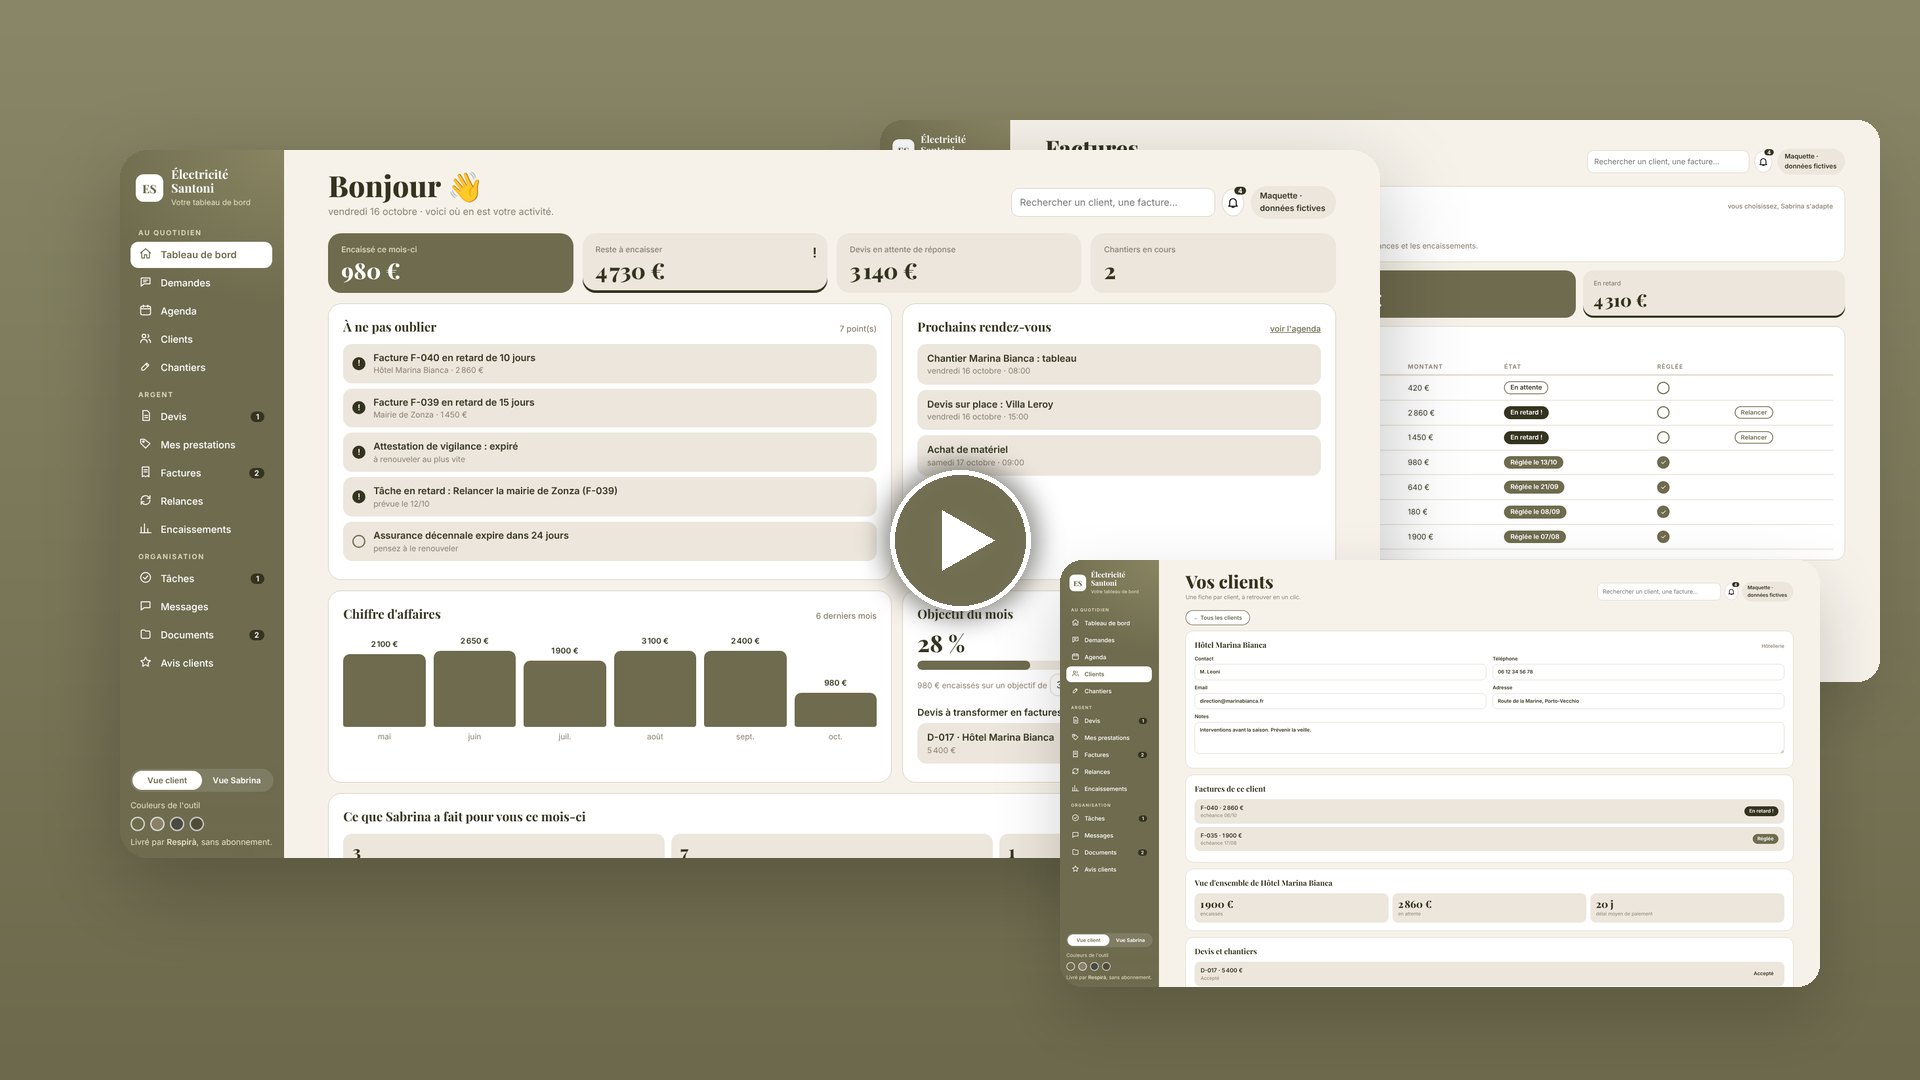
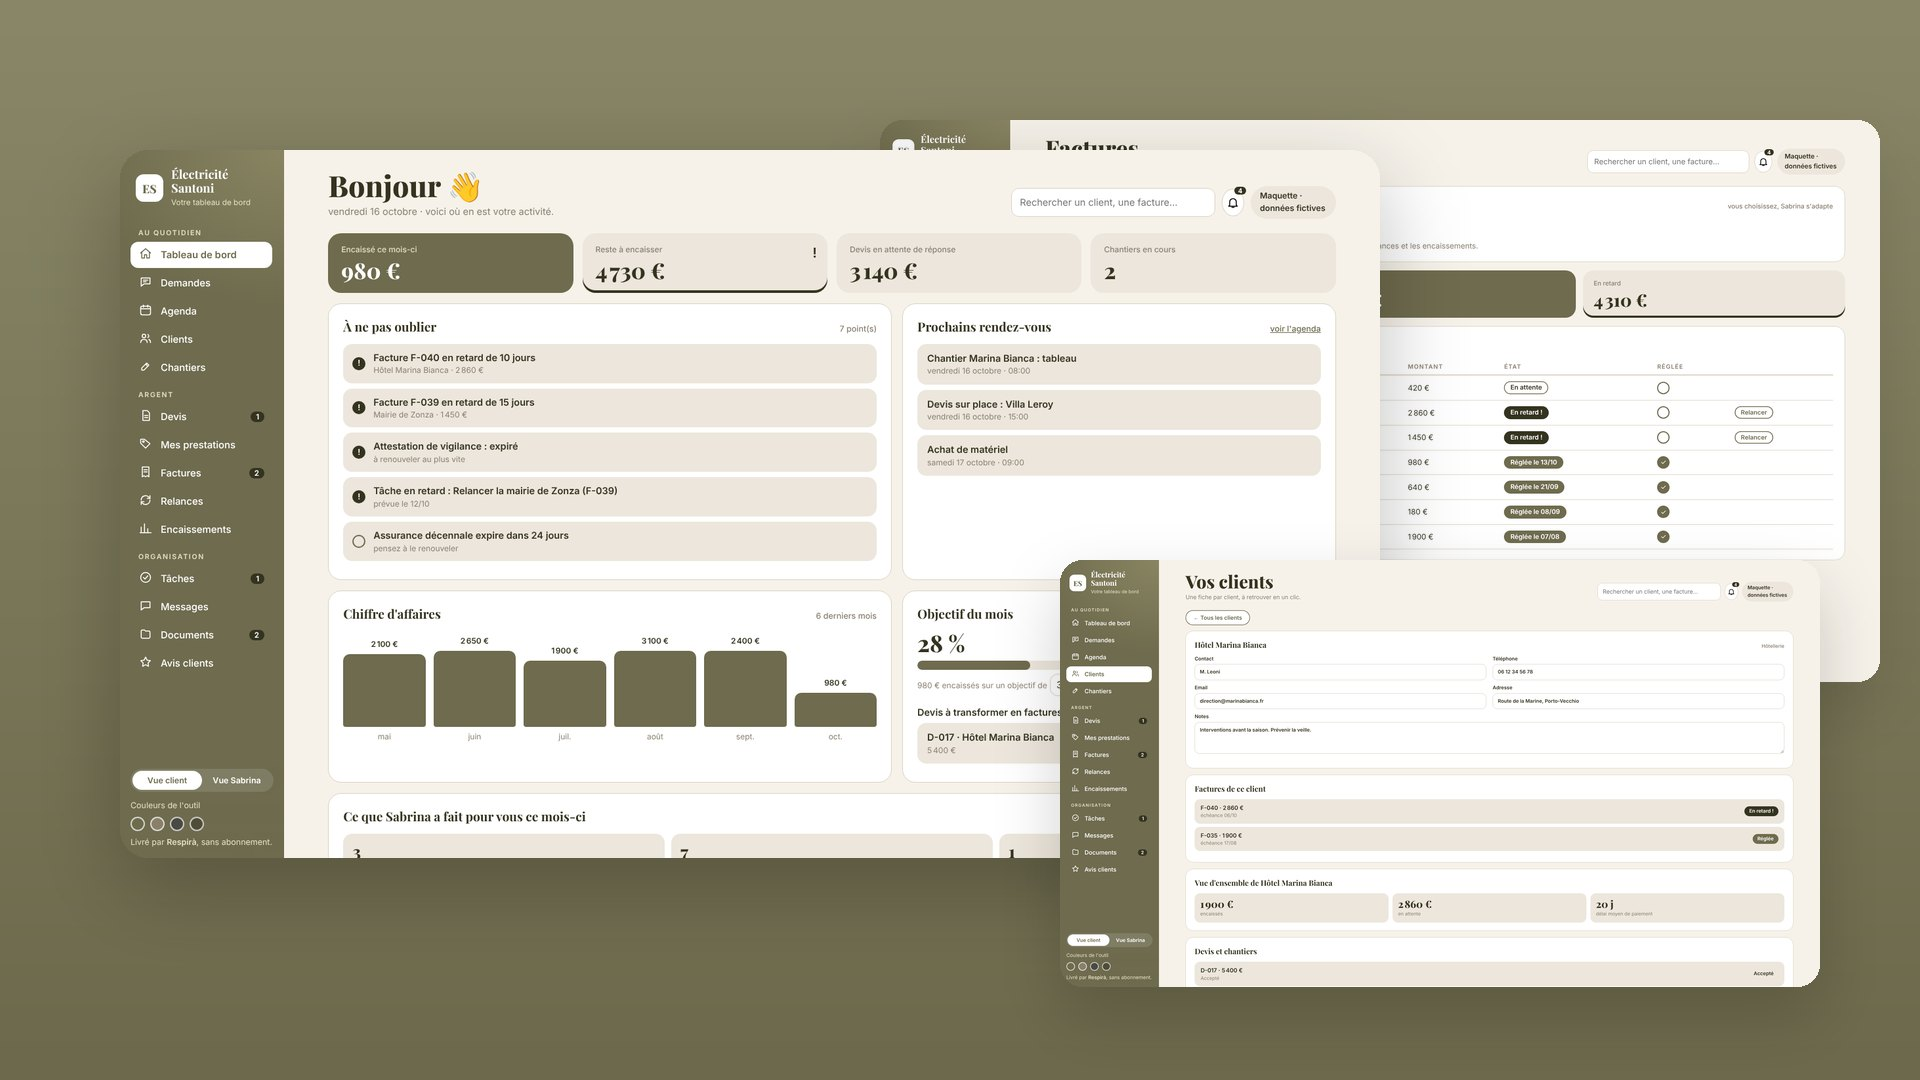
update

Changed region(s): [[0.4375, 0.4278, 0.5625, 0.5806]]

diff --git a/index.html b/index.html
@@ -386,6 +386,10 @@
   .demo-video { margin:44px auto 8px; max-width:980px; }
   .demo-video .frame { position:relative; border-radius:22px; overflow:hidden; background:var(--primary); box-shadow:0 30px 70px -30px rgba(52,51,31,.55), 0 0 0 1px rgba(52,51,31,.12); aspect-ratio:16/9; }
   .demo-video video { display:block; width:100%; height:100%; object-fit:cover; background:var(--primary); }
+  .vplay { position:absolute; left:50%; top:50%; width:104px; height:104px; margin:-52px 0 0 -52px; border-radius:50%; border:4px solid #fff; background:rgba(110,107,78,.92); cursor:pointer; display:flex; align-items:center; justify-content:center; box-shadow:0 18px 40px -12px rgba(0,0,0,.55); transition:transform .3s var(--ease), background .3s, opacity .3s; padding:0; }
+  .vplay svg { width:44px; height:44px; fill:#fff; margin-left:6px; }
+  .vplay:hover { transform:scale(1.08); background:var(--ink); }
+  .vplay.hide { opacity:0; pointer-events:none; }
   .demo-video figcaption { margin-top:14px; text-align:center; font-size:.9rem; color:var(--muted); }
   .js .reveal { opacity:0; transform:translateY(30px); transition:opacity .8s var(--ease), transform .8s var(--ease); will-change:opacity, transform; }
   .js .reveal.visible { opacity:1; transform:none; }
@@ -718,6 +722,7 @@
           <source src="video/respira-presentation.mp4" type="video/mp4">
           Votre navigateur ne lit pas cette vidéo.
         </video>
+        <button type="button" class="vplay" id="vplay" aria-label="Lancer la vidéo"><svg viewBox="0 0 24 24" aria-hidden="true"><path d="M8 5.5v13l11-6.5z"/></svg></button>
       </div>
       <figcaption>L'outil en 1 minute 25 · exemple avec des données fictives · musique, sans paroles</figcaption>
     </figure>
@@ -963,6 +968,16 @@
   window.addEventListener('scroll', function () { if (!ticking) { ticking = true; requestAnimationFrame(onScroll); } }, { passive: true });
   window.addEventListener('resize', onScroll);
   onScroll();
+
+  /* ---- vidéo : bouton lecture sur l'image ---- */
+  (function () {
+    var v = d.querySelector('.demo-video video'), b = d.getElementById('vplay');
+    if (!v || !b) return;
+    b.addEventListener('click', function () { v.play(); });
+    v.addEventListener('play', function () { b.classList.add('hide'); });
+    v.addEventListener('pause', function () { if (!v.ended) return; b.classList.remove('hide'); });
+    v.addEventListener('ended', function () { b.classList.remove('hide'); });
+  })();
 
   /* ---- menu mobile ---- */
   var tg = d.getElementById('navToggle');
